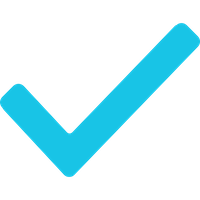
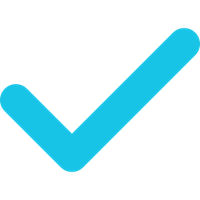
refactor(Settings): improved style
- update forward and checked icons

diff --git a/src/components/Settings/SingleSelectList/style.js b/src/components/Settings/SingleSelectList/style.js
@@ -18,6 +18,7 @@ export default StyleSheet.create({
     alignItems: 'center',
     justifyContent: 'space-between',
     paddingBottom: 10,
+    paddingRight: 5,
     borderBottomWidth: 1,
   },
 

diff --git a/src/components/Settings/style.js b/src/components/Settings/style.js
@@ -63,7 +63,6 @@ export default StyleSheet.create({
 
   rowContentName: {
     fontSize: 16,
-    fontWeight: '500',
   },
 
   rowContentValue: {

diff --git a/src/components/shared/defaultHeaderStyle.js b/src/components/shared/defaultHeaderStyle.js
@@ -9,6 +9,6 @@ export default StyleSheet.create({
 
   headerTitle: {
     fontWeight: '300',
-    fontSize: 25,
+    fontSize: 22,
   },
 });
